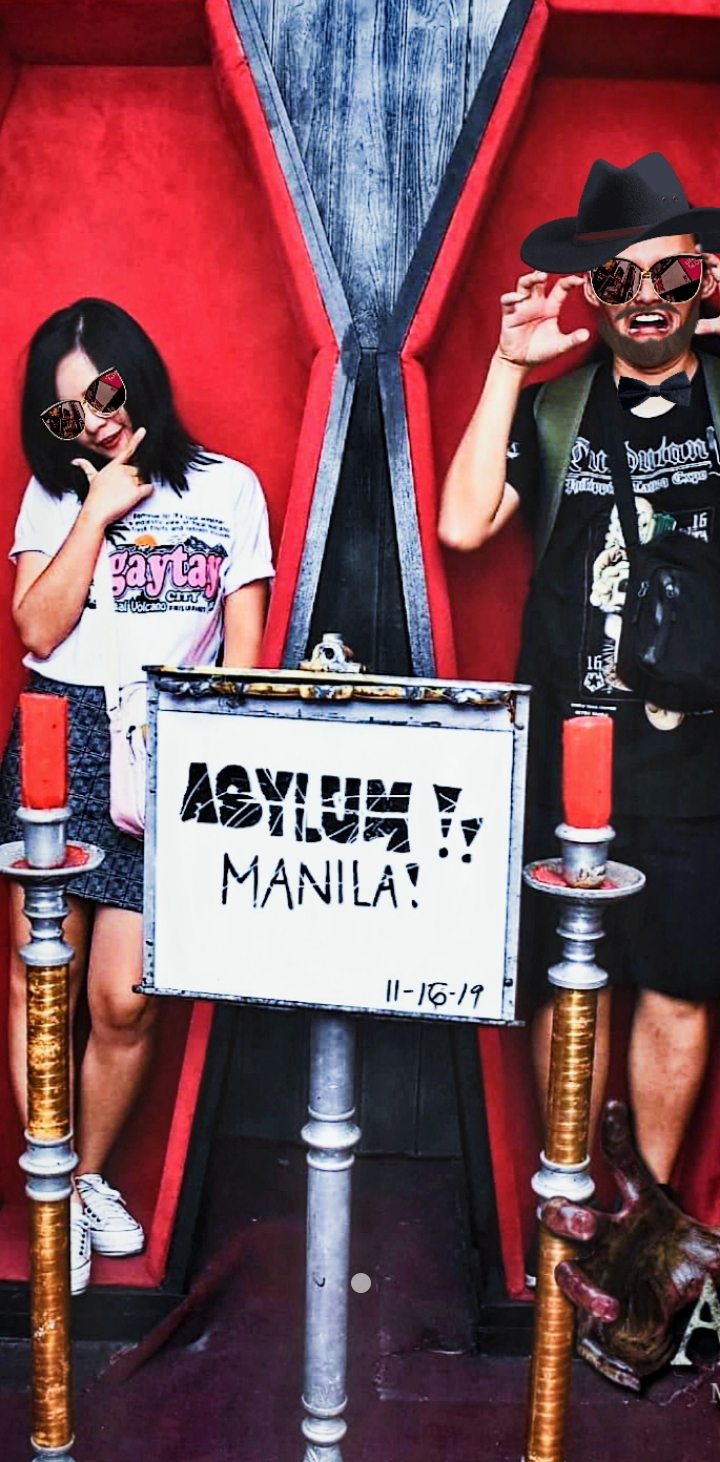
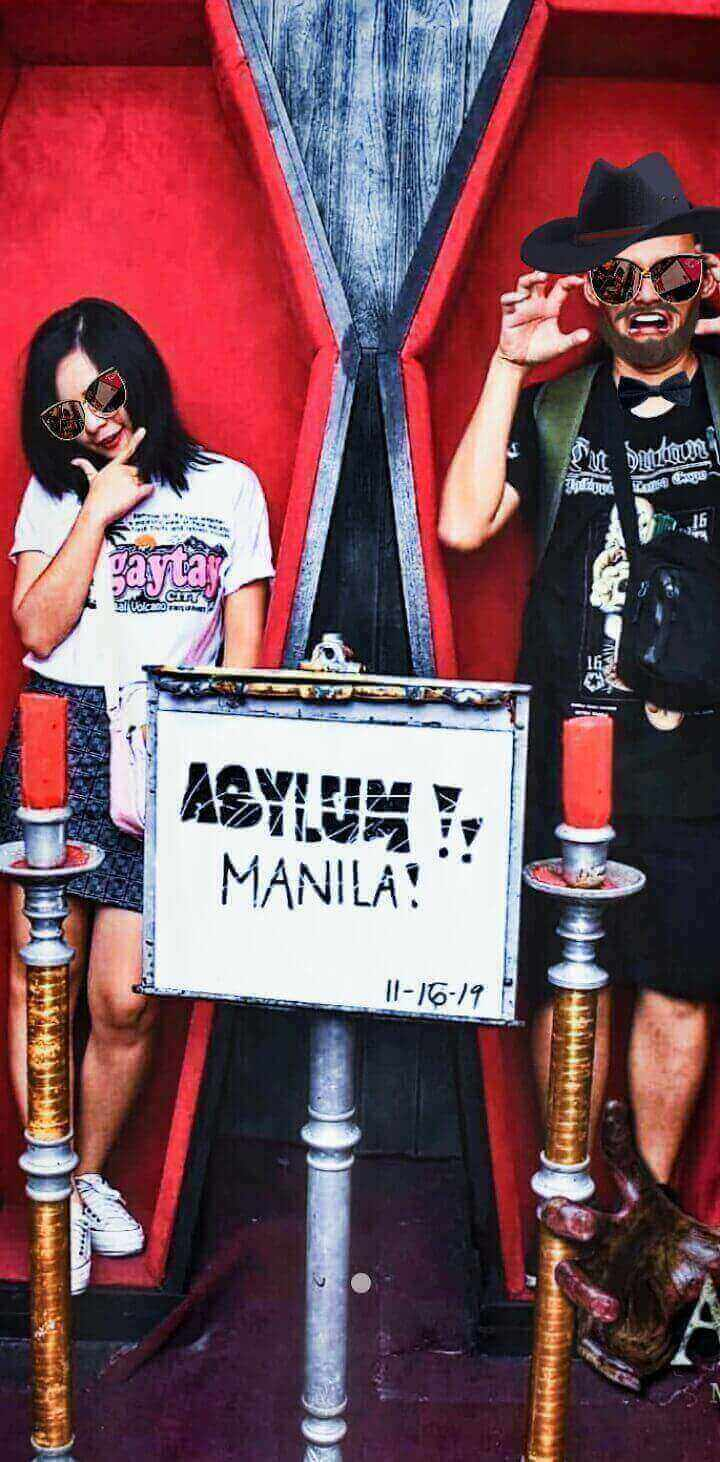
update jpg image/s -- reduce size for faster loading

diff --git a/public/index.html b/public/index.html
@@ -2,35 +2,36 @@
 <html lang="en">
   <head>
     <meta charset="utf-8" />
+    <title>Josef Lonzamia</title>
     <link rel="icon" href="%PUBLIC_URL%/img/josef.ico" />
+    <meta http-equiv="X-UA-Compatible" content="IE=Edge">
     <meta name="viewport" content="width=device-width, initial-scale=1,user-scalable=no" />
     <meta name="theme-color" content="#000000" />
     <meta
         name="description"
-        content=""
+        content="This is just a calculator, a calculator in a phone"
     />
-    <title>Josef Lonzamia</title>
 
     <meta itemprop="name" content="Joseph Lonzamia">
-    <meta itemprop="description" content="">
-    <meta itemprop="image" content="/img/josef.png">
+    <meta itemprop="description" content="This is just a calculator, a calculator in a phone">
+    <meta itemprop="image" content="/img/josef.jpg">
 
-    <meta property="og:url" content="https://website.com/">
-    <meta property="og:site_name" content="https://website.com/" />
+    <meta property="og:url" content="https://phone-calculator-2eb97.web.app/">
+    <meta property="og:site_name" content="https://phone-calculator-2eb97.web.app/" />
     <meta property="og:type" content="website">
     <meta property="og:title" content="Joseph Lonzamia">
     <meta property="og:locale" content="en_PH">
-    <meta property="og:description" content="">
+    <meta property="og:description" content="This is just a calculator, a calculator in a phone">
     <meta property="og:image" content="/img/josef.png">
 
     <meta property="twitter:card" content="summary_large_image">
     <meta property="twitter:title" content="Joseph Lonzamia">
-    <meta property="twitter:description" content="">
+    <meta property="twitter:description" content="This is just a calculator, a calculator in a phone">
     <meta property="twitter:image" content="/img/josef.png">
-    <meta property="twitter:url" content="https://website.com/">
+    <meta property="twitter:url" content="https://phone-calculator-2eb97.web.app/">
 
     <meta name="keywords" content="josef,joseph,josef lonzamia,joseflonzamia, josephlonzamia, joseph lonzamia">
-    <link rel="canonical" href="https://website.com/" />
+    <link rel="canonical" href="https://phone-calculator-2eb97.web.app/" />
     <link rel="apple-touch-icon" href="%PUBLIC_URL%/logo192.png" />
     <link rel="manifest" href="%PUBLIC_URL%/manifest.json" />
   </head>
